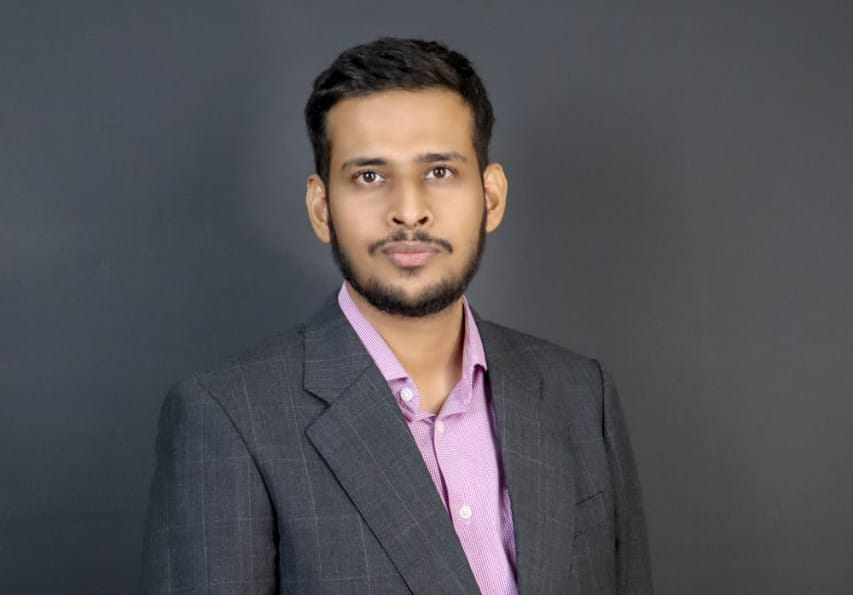
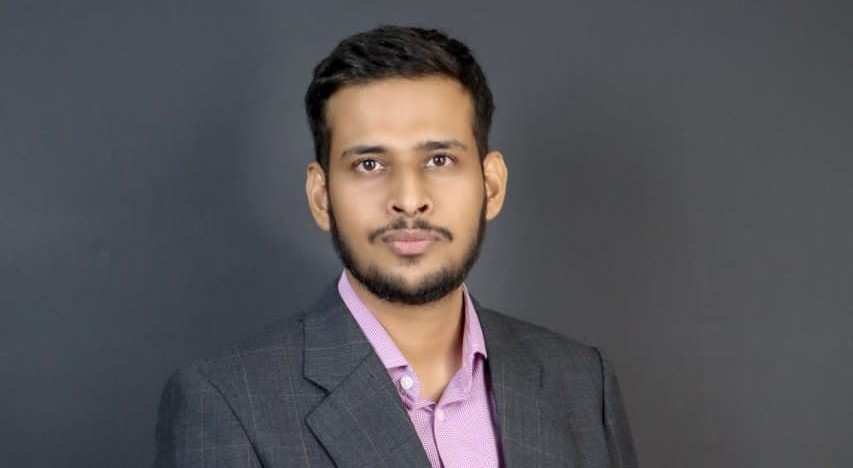
update hammad-full.jpg image

diff --git a/components/about-page/about.tsx b/components/about-page/about.tsx
@@ -11,7 +11,7 @@ const AboutComponent: FC = () => {
         <Image
           src="/images/hammad-full.jpg"
           width={853}
-          height={595}
+          height={468}
           alt="Hammad"
         />
       </div>
